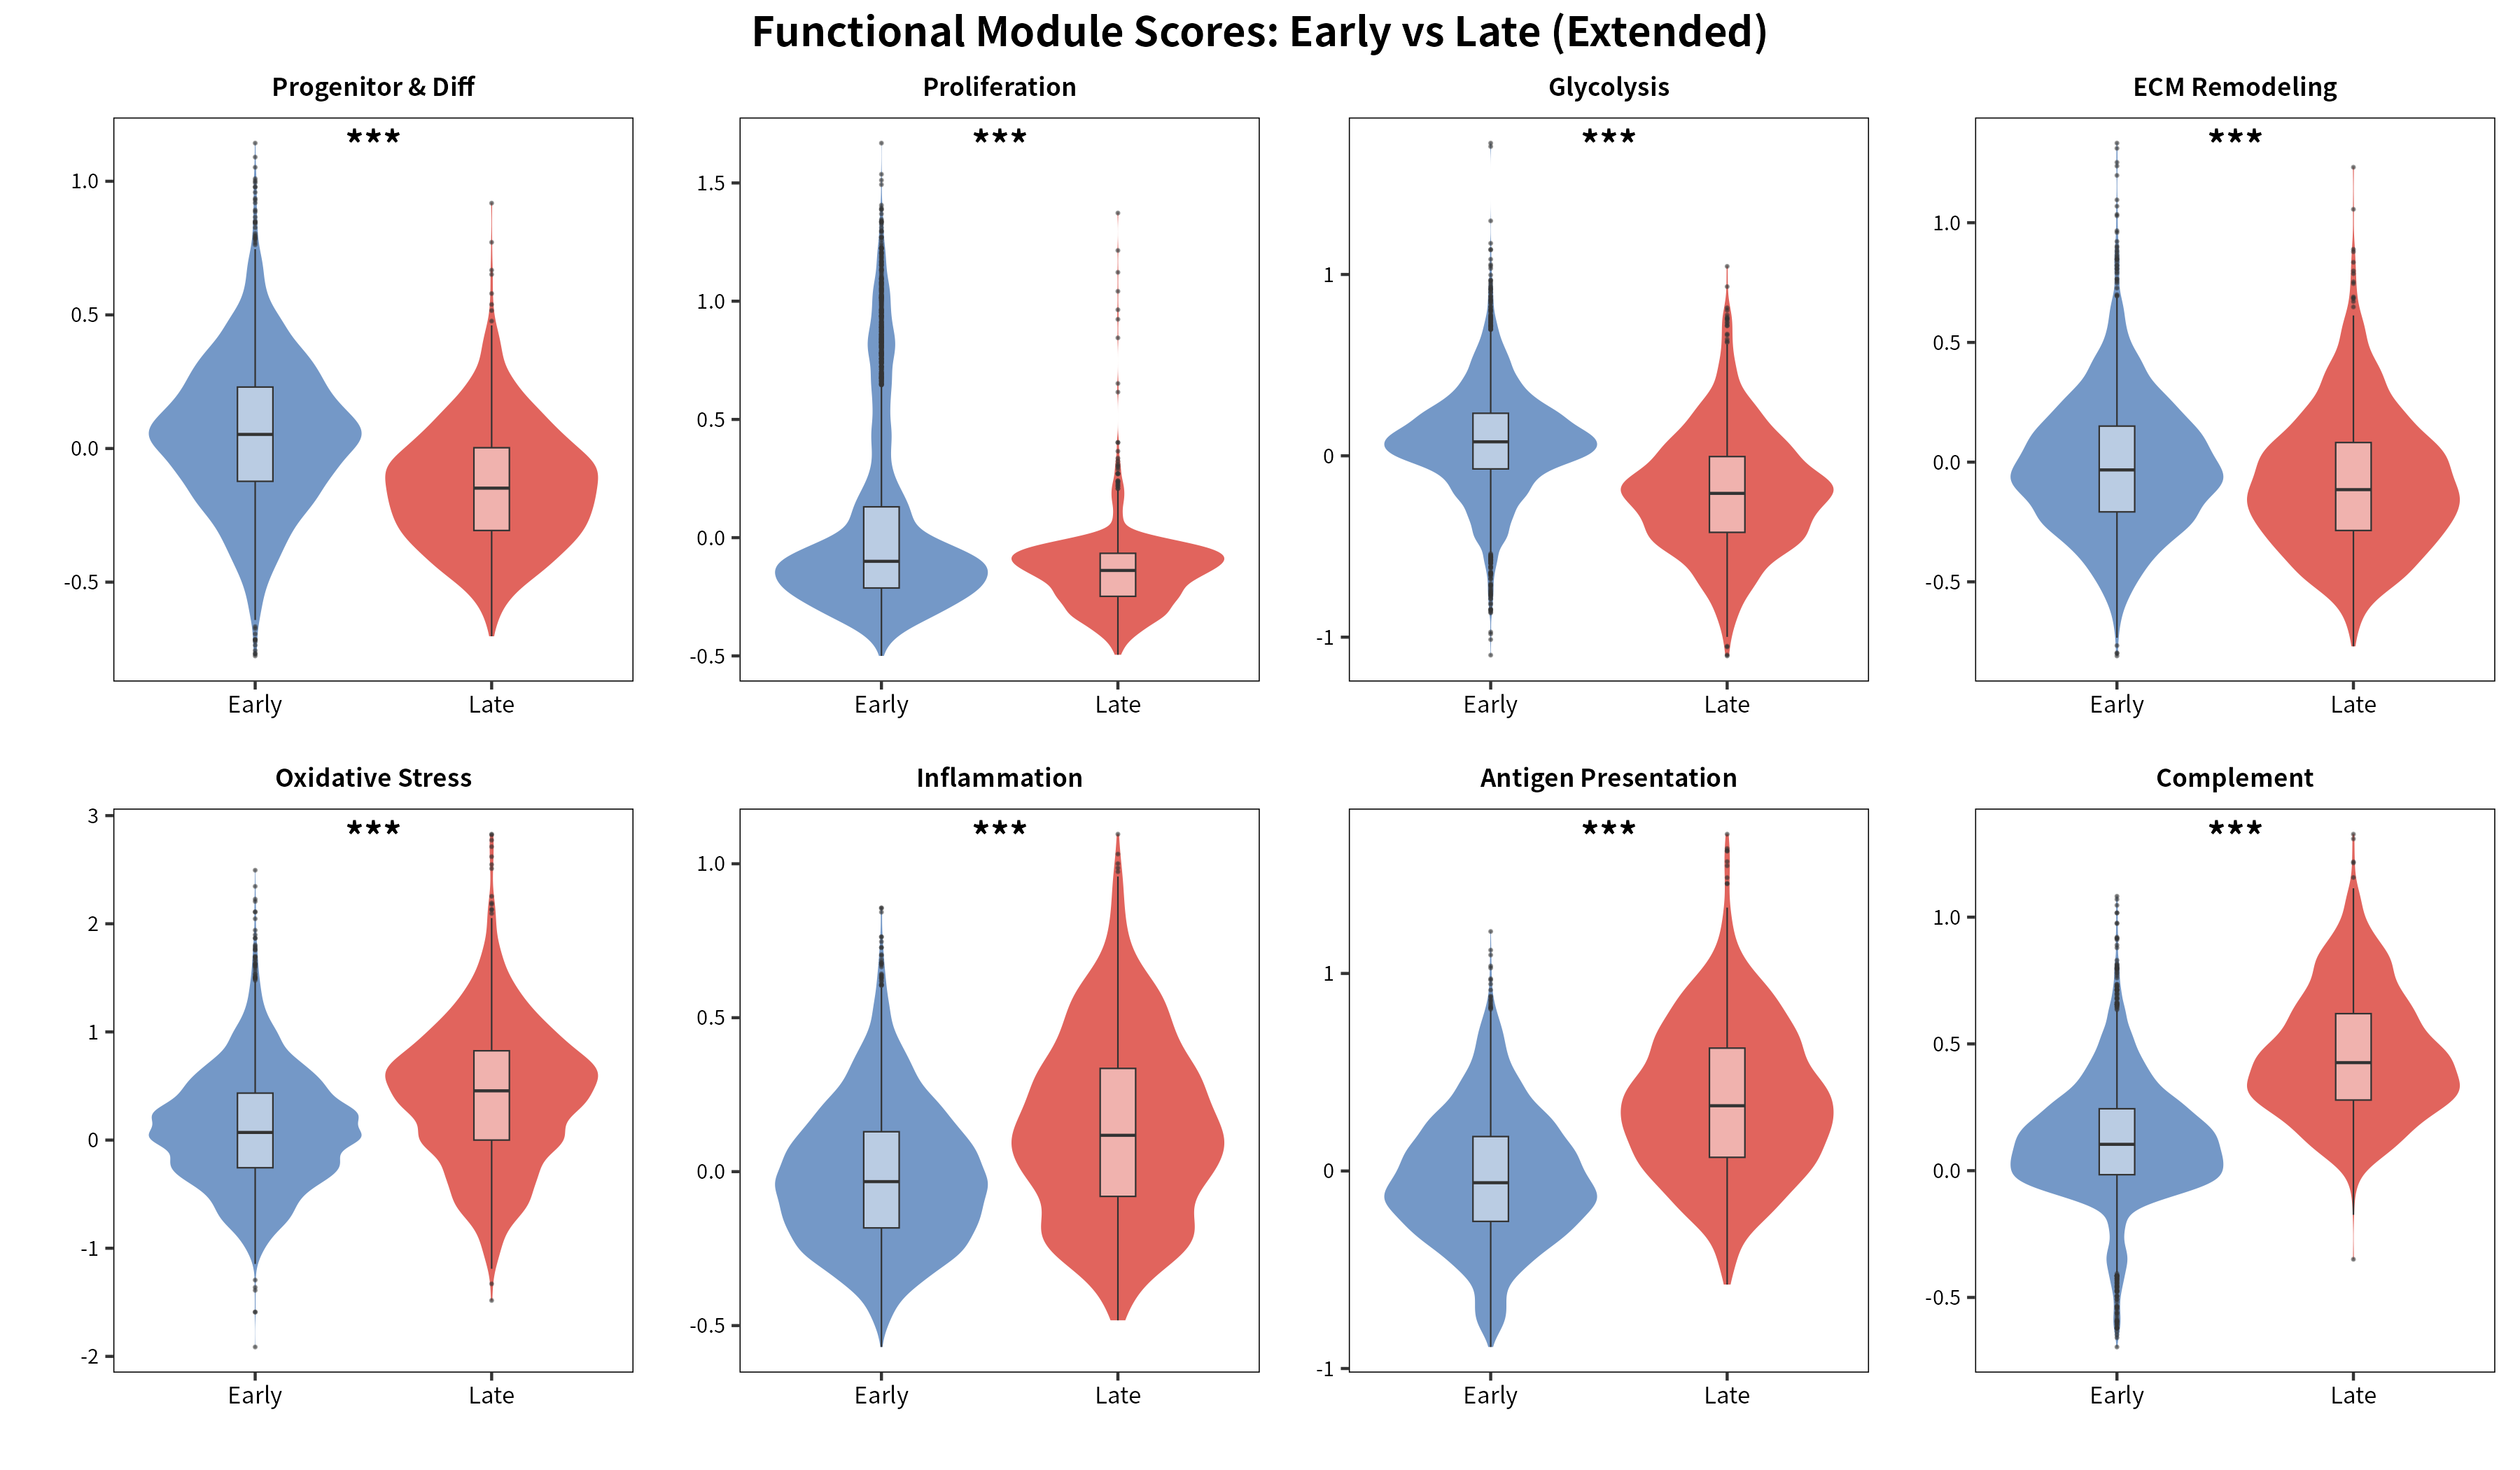
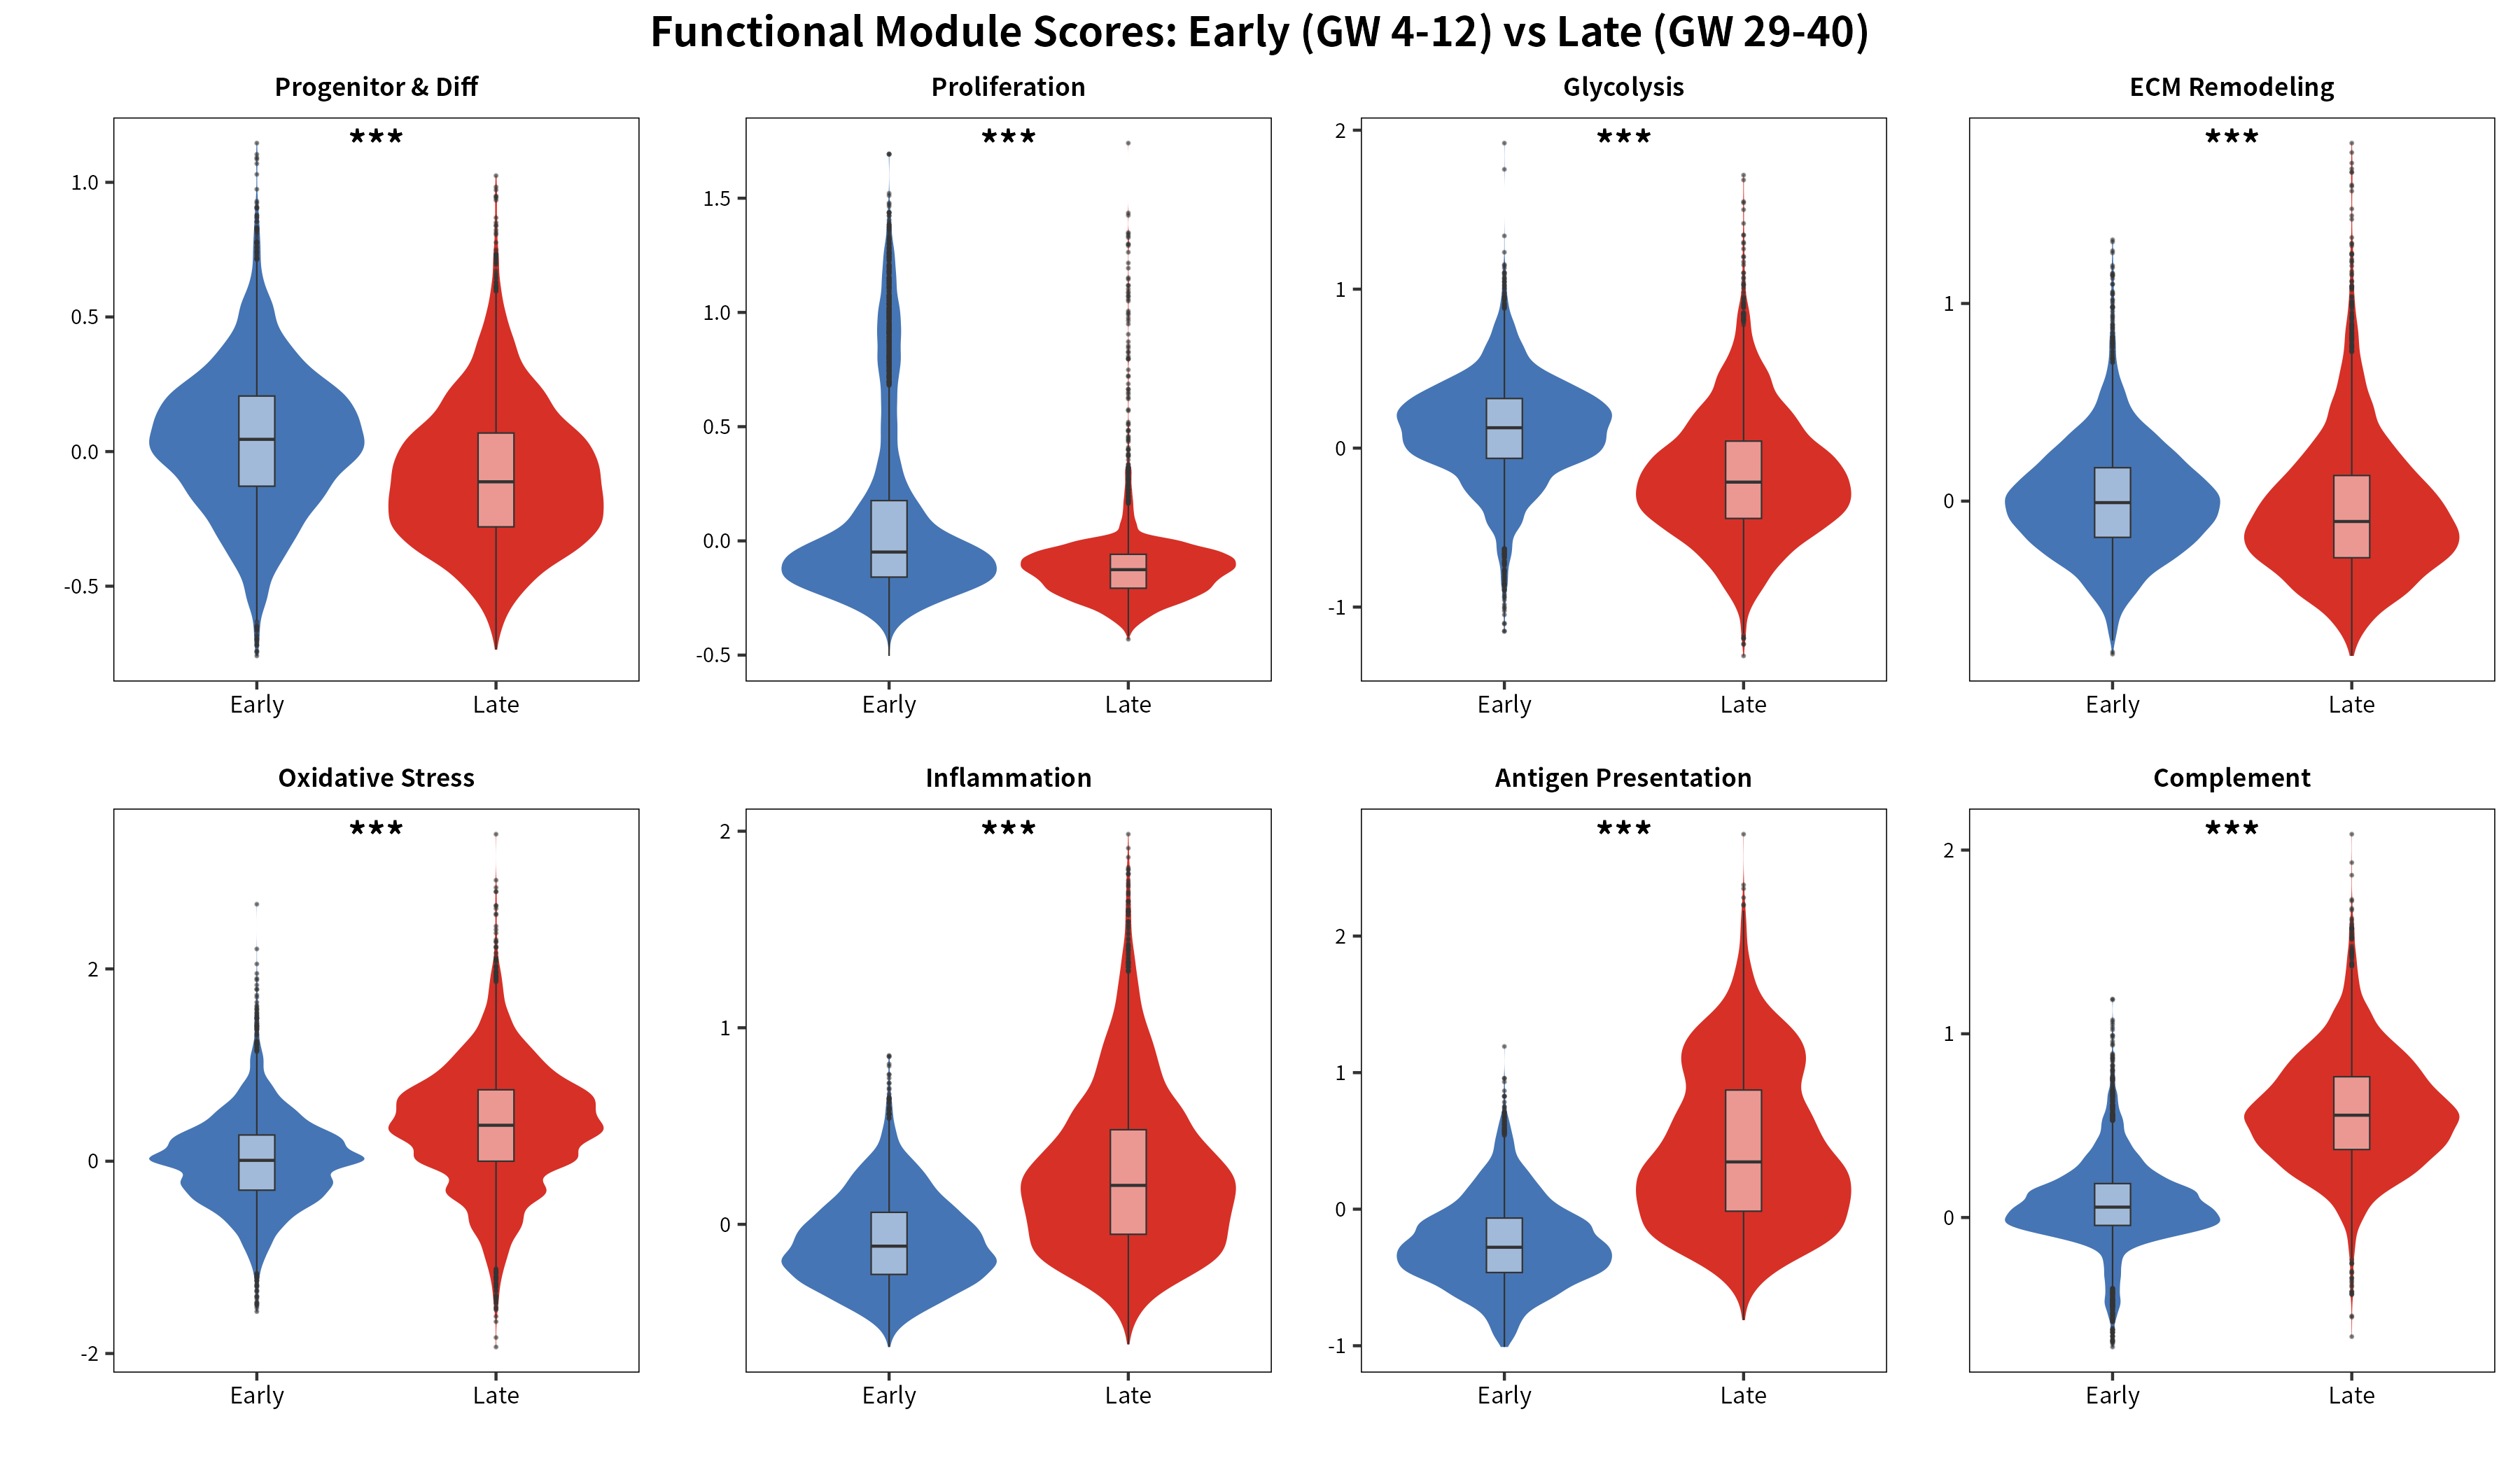
Update: 11-dataset atlas (21,681 cells), revise README with manuscript info, update Fig1 panels, remove legacy Chinese-named supplementary figures

diff --git a/README.md b/README.md
@@ -1,77 +1,109 @@
-# Hofbauer Cell Atlas — 全孕期发育图谱与疾病分析
+# Hofbauer Cell Atlas — Multi-Omic Developmental Atlas Across Gestation and Disease
 
-整合8个scRNA-seq数据集（17,896 Hofbauer细胞）+ ATAC-seq + STOMICS空间转录组的胎盘驻留巨噬细胞综合分析管线。
+Integration of 11 scRNA-seq datasets (21,681 Hofbauer cells) + snATAC-seq + Stereo-seq spatial transcriptomics + CellChat analysis, constructing a multi-omic atlas of human placental Hofbauer cells.
 
-## 目录结构
+**Manuscript**: "The architecture of Hofbauer cells" (submitted to *Communications Biology*)  
+**Interactive Data Portal**: https://sc-macrophage.shinyapps.io/hofbauer-atlas/  
+**Manuscript Files**: `../文章手稿/Manuscript_Full_CommsBio.md` (markdown) / `.docx` (Word)
+
+## Repository Structure
 
 ```
 ucsf_integration/
-├── code/            # 分析脚本 (R + Python)
-├── results/         # 输出数据 (RDS, CSV, h5ad)
-│   └── classification/  # 分类器输出
-├── figures/         # 出版用图 (300dpi PNG/PDF)
-│   ├── Fig1/        # 发育图谱 + 蛋白质验证
-│   ├── Fig2/        # TF开关 + ATAC-seq
-│   ├── Fig3/        # 空间转录组niche分析
-│   ├── Fig4/        # CellChat通讯网络
-│   ├── Fig5/        # 疾病扰动分析
-│   ├── Fig6/        # 双轨TF调控模型
-│   ├── Fig7/        # 疾病中双轨模型破坏
-│   └── FigS/        # 补充图
-├── write/           # 结果描述 (中文)
-├── ref/             # 参考文件 (GMT基因集)
-├── deprecated/      # 废弃/迭代中间文件
+├── code/                  # Analysis scripts (R + Python) — main pipeline
+├── vento_integration/     # Vento-Tormo integration sub-project
+│   └── code/              # Sub-pipeline scripts (R + Python, 64 scripts)
+├── results/               # Output data (RDS, CSV, h5ad)
+│   └── classification/    # Classifier output
+├── figures/               # Publication figures (300dpi PNG/PDF)
+│   ├── Fig1/              # Developmental atlas + protein validation
+│   ├── Fig2/              # TF switch + ATAC-seq
+│   ├── Fig3/              # Spatial transcriptomics niche
+│   ├── Fig4/              # CellChat communication network
+│   ├── Fig5/              # Dual-track TF regulatory model
+│   ├── Fig6/              # Disease perturbation analysis
+│   ├── Fig7/              # Disease disruption of dual-track model
+│   └── FigS/              # Supplementary figures
+├── write/                 # Draft results text (Chinese)
+├── ref/                   # Reference files (GMT gene sets)
+├── deprecated/            # Deprecated intermediate files
 │   ├── code/
 │   ├── figures/
 │   └── results/
-├── logs/            # 运行日志
-└── 工作记录.md       # 分析决策记录
+├── shiny/                 # Shiny app for interactive data exploration
+│   ├── app.R
+│   ├── shiny_data/
+│   └── www/
+├── logs/                  # Run logs
+├── app.R                  # Standalone Shiny app
+├── 工作记录.md             # Analysis decision log (Chinese)
+└── README.md
 ```
 
-## 图 Panels 与脚本对应
+## Figure-to-Script Mapping
 
-| 图 | 脚本 | 说明 |
-|----|------|------|
-| Fig1A | `42_fig1a_model.R` | 数据概览模型图 |
-| Fig1B | `17_final_comprehensive_figures.R` | 亚型UMAP |
-| Fig1C | `fig5a_umap.R` | 孕期UMAP |
-| Fig1D | `fig5b_subtype_proportions.R` | 亚型比例线图 |
-| Fig1E | `fig5c_gsea.R` | GSEA功能转换 |
-| Fig1F | `29_module_volcano.R` | 模块评分轨迹 |
-| Fig1G | `fig5d_gene_dotplot.R` | 发育基因点图 |
-| Fig2a | `30_fig2a_final.R` | TF点图 |
-| Fig2b | `34_atac_analysis.R` | ATAC火山图 |
-| Fig2c | `fig6c_motif.R` | Motif富集 |
-| Fig2d | `37_atac_rna_joint.R` | ATAC-RNA散点图 |
-| Fig2e | `41_fig2b_gsea_network.R` | GSEA网络 |
-| Fig2f | `20_GSEA_trimester.R` | 热图 |
-| Fig3 | `32_spatial_plot.py`, `33_neighborhood.py` | 空间转录组 |
-| Fig4 | `45_fig4_cellchat.R`, `63_spatial_LR_validation.py` | CellChat + 空间验证 |
-| Fig5 | `fig5a_umap.R` ~ `fig5e_tf_violins.R`, `40_disease_analysis.R` | 疾病分析 |
-| Fig6 | `fig6a_tf_comm_corr.R` ~ `fig6e_model.R` | 双轨调控 |
-| Fig7 | `fig7_disease_dual.R`, `fig7_subtype_comm.R`, `fig7f_cellchat.R`, `fig7g_stomics_subtypes.py` | 疾病破坏 |
+| Figure | Key Scripts | Description |
+|--------|-------------|-------------|
+| Fig1A | `code/42_fig1a_model.R` | Study design schematic |
+| Fig1B | `code/17_final_comprehensive_figures.R` | Subtype UMAP |
+| Fig1C | `code/fig5a_umap.R` | Trimester UMAP |
+| Fig1D | `code/fig5b_subtype_proportions.R` | Subtype proportion line plots |
+| Fig1E | `code/fig5c_gsea.R` | GSEA functional transition |
+| Fig1F | `code/29_module_volcano.R` | Module score trajectories |
+| Fig1G | `code/fig5d_gene_dotplot.R` | Developmental gene dot plot |
+| Fig2A | `code/30_fig2a_final.R` | TF dot plot |
+| Fig2B | `code/34_atac_analysis.R` | ATAC volcano plot |
+| Fig2C | `code/37_atac_rna_joint.R` | ATAC-RNA scatter plot |
+| Fig2D | `code/fig6c_motif.R` / `code/56_motif_enrich.py` | Motif enrichment |
+| Fig2E | `code/41_fig2b_gsea_network.R` | GSEA network |
+| Fig2F | `code/20_GSEA_trimester.R` | Expression heatmap |
+| Fig3 | `code/32_spatial_plot.py`, `code/33_neighborhood.py` | Spatial transcriptomics |
+| Fig4 | `code/45_fig4_cellchat.R`, `code/63_spatial_LR_validation.py` | CellChat + spatial validation |
+| Fig5 | `code/fig6a_tf_comm_corr.R` ~ `code/fig6e_model.R` | Dual-track regulatory model |
+| Fig6 | `code/40_disease_analysis.R`, `code/fig5*.R` | Disease perturbation |
+| Fig7 | `code/fig7_disease_dual.R`, `code/fig7g_stomics_subtypes.py` | Disease disruption of dual-track |
 
-## 关键数据文件
+Additional analysis scripts are in `vento_integration/code/` (64 scripts covering data extraction, classification, Harmony integration, DEG, GSEA, spatial analysis).
 
-| 文件 | 内容 |
-|------|------|
-| `results/hofbauer_final_clean.rds` | 最终Seurat对象 (17,896 cells) |
-| `results/Hofbauer_Atlas_Final.rds` | 带标注的Atlas对象 |
-| `results/Hofbauer_ATAC_mid_term.rds` | ATAC Mid vs Term 对象 |
-| `results/cellchat_ucsf_mid.rds` | 中孕期CellChat结果 |
-| `results/cellchat_hoo2024_*.rds` | 感染vs对照CellChat |
-| `results/classification/all_hofbauer_final_corrected.h5ad` | 分类器输出 |
+## Key Data Files
 
-## 运行环境
+| File | Content |
+|------|---------|
+| `results/hofbauer_final_clean.rds` | Final Seurat object (21,681 cells) |
+| `results/Hofbauer_Atlas_Final.rds` | Annotated atlas object |
+| `results/Hofbauer_ATAC_mid_term.rds` | ATAC Mid vs Term object |
+| `results/cellchat_ucsf_mid.rds` | Mid-gestation CellChat results |
+| `results/cellchat_hoo2024_*.rds` | Infection vs control CellChat |
+| `results/classification/all_hofbauer_final_corrected.h5ad` | Classifier output (21,681 cells) |
+
+## Datasets Integrated
+
+| Dataset | Gestation | Condition | n (HBCs) |
+|---------|-----------|-----------|----------|
+| E-MTAB-6701 | GW4.5–10 | Normal (elective termination) | 5,002 |
+| GSE290578 | GW32–38 | Normal + PE | 6,704 |
+| GSE214607 | GW6–10 | Normal + Miscarriage | 874 |
+| E-MTAB-12421 | GW5–8 | Normal + Infection | 1,975 |
+| GSE173193 | GW29–40 | Normal + PE | 2,731 |
+| GSE298119 | GW29–34 | Normal + PE | 3,012 |
+| GSE298602 | GW37–40 | Normal + PE | TBD |
+| GSE329173 | GW30–38 | Severe PE | 337 |
+| GSE333257 | GW32–38 | Normal + PTB | 3,716 |
+| E-MTAB-12795 | GW6–14 | Normal | TBD |
+| UCSF Li 2026 | GW11–24 | Normal (mid-gestation) | TBD |
+| **Total** | **GW4.5–38** | | **21,681** |
+
+## Environment
 
 - R >= 4.3, Python >= 3.10
-- R包: Seurat, Signac, harmony, CellChat, clusterProfiler, slingshot, monocle3
-- Python包: scanpy, squidpy, pandas, numpy
+- R packages: Seurat v5, Signac, harmony, CellChat v2, fgsea, clusterProfiler, slingshot, monocle3, ComplexHeatmap, ggplot2
+- Python packages: scanpy, squidpy, pandas, numpy, macs3
 - MACS3: `~/.local/bin/macs3`
 
-## 已知局限
+## Known Limitations
 
-1. Hi-C/ABC模型数据不存在——手稿中相关句子已标注为推断性陈述
-2. STOMICS数据GEO accession待补充
-3. 仅中孕期CellChat数据（PE/流产CellChat未运行）
-4. 感染组全部来自hoo_2024单一数据集 (n=1,893)
+1. Hi-C/ABC model data unavailable — speculative statements in manuscript are noted
+2. Stereo-seq data GEO accession pending
+3. CellChat only for mid-gestation normal; disease-state CellChat coverage incomplete
+4. Infection phenotype from single dataset (hoo_2024, n=1,975); generalizability requires validation
+5. snATAC-seq limited to mid-gestation vs term (first-trimester chromatin landscape missing)

diff --git a/write/Fig6_Fig7_Results_draft.md b/write/Fig6_Fig7_Results_draft.md
@@ -1,0 +1,83 @@
+# Fig6 & Fig7 Results (Draft for Review)
+
+---
+
+## Figure 6. Hofbauer cell transcriptional reprogramming across pregnancy diseases.
+
+To determine how pathological conditions reshape the Hofbauer cell landscape established through normal development (Figures 1–4) and the dual-track communication identity defined by TF programming (Figure 5), we compared Hofbauer cells from six clinical states: Normal_Early (first-trimester elective termination), Normal_Late (term, not in labor), Miscarriage (first-trimester recurrent miscarriage), Infection (first-trimester pathogen-exposed: *Toxoplasma gondii*, *Plasmodium falciparum*, *Listeria monocytogenes*), Preeclampsia (PE; late-gestation, five datasets), and Preterm birth (late-gestation spontaneous preterm, not in labor). UMAP visualization stratified by condition revealed that each disease state occupies a distinct region of transcriptional space, with infection and PE driving the most pronounced departures from their respective normal baselines (Figure 6a).
+
+Quantification of subtype proportions exposed disease-specific compositional signatures (Figure 6b). In infection, the PRKN⁺ Autophagy subtype dominated the landscape, expanding to 71.4% of Hofbauer cells (versus 18.2% in Normal_Early), while the homeostatic and MHC-II⁺ populations contracted sharply. PE showed a contrasting pattern: the MHC-II⁺ Antigen-presenting subtype expanded from 28.9% (Normal_Late) to 41.3%, accompanied by a decline in the homeostatic compartment (35.7% to 18.6%). Preterm birth was characterized by Pro-inflammatory subtype expansion (7.3% to 26.8% versus Normal_Late), whereas miscarriage exhibited the most modest compositional shift, with a moderate increase in the vascular remodeling subtype.
+
+Gene set enrichment analysis comparing each disease against its gestational-age-matched normal control revealed divergent pathway engagement (Figure 6c). Infection triggered the broadest transcriptional response, with strong activation of interferon-γ response (NES = 2.4), TNFα signaling via NF-κB (NES = 2.1), and inflammatory response pathways. PE activated complement cascades (NES = 1.8) and oxidative phosphorylation but suppressed MYC targets and E2F targets, consistent with reduced proliferative capacity. Preterm birth selectively activated IL6-JAK-STAT3 signaling and inflammatory response programs. Miscarriage showed minimal pathway-level perturbation, with only modest activation of apoptosis and p53 pathways.
+
+At the single-gene level, a z-score dot plot of 25 representative genes across the six conditions crystallized these disease-specific signatures (Figure 6d). Infection was defined by massive upregulation of autophagy and lysosomal genes (*PRKN*, *SQSTM1*, *LAMP2*, *CTSD*) and innate immune effectors (*IL1B*, *CXCL8*, *CCL3*). PE featured elevated complement components (*C1QA*, *C1QB*, *C1QC*), MHC class II genes (*HLA-DRA*, *HLA-DPA1*), and the "don't eat me" signal *CD47*, alongside suppression of tissue remodeling genes (*SPP1*, *FN1*, *MMP9*). Preterm birth selectively upregulated *TNF*, *IL1B*, and *CXCL8*. Miscarriage cells showed isolated upregulation of *SPP1* and pregnancy-specific glycoproteins (*PSG3*, *PSG4*, *PSG5*), with minimal changes in immune effector genes.
+
+To identify the upstream regulators driving these transcriptional shifts, we examined four key transcription factors — STAT1, NFKB1, CEBPA, and JUN — across all six conditions (Figure 6e). STAT1 and NFKB1 were strongly induced in infection (3.2-fold and 2.7-fold versus Normal_Early, respectively; both P < 0.001), consistent with the dominant interferon and NF-κB pathway activation observed in GSEA. CEBPA, the early-gestation lineage-determining TF, declined in infection (0.72 to 0.41, P < 0.001) and collapsed to its lowest level in PE (0.26, P < 0.001 versus Normal_Late). JUN, encoding c-Jun, was selectively elevated in infection. In preterm birth, NFKB1 was moderately elevated (P < 0.01) while CEBPA was preserved relative to Normal_Late, suggesting that the inflammatory activation in preterm birth operates without loss of lineage identity. Eight additional TFs (FOS, ID2, IRF1, IRF8, KLF4, MAFB, RELB, STAT3) showed disease-specific patterns consistent with this framework (Figure S6b).
+
+We next asked whether PE, which showed the most complex transcriptional phenotype, reflects a systematic deviation from the normal developmental trajectory. We directly compared early-gestation (GW4.5–10) and late-gestation (GW32–38) Hofbauer cells within the PE cohort (Figure 6f–h). UMAP analysis revealed that PE early- and late-gestation cells partially overlapped in transcriptional space, in contrast to the clear temporal separation observed in normal development (Figure 6f). Subtype proportions across the PE developmental axis showed blunted temporal dynamics: the Pro-inflammatory subtype declined only modestly from early to late PE (38.2% to 22.5%, versus 42.1% to 7.3% in normal development), and the homeostatic subtype failed to expand appropriately (Figure 6g). Direct differential expression between early- and late-gestation PE cells identified 1,247 DEGs, substantially fewer than the 2,841 DEGs in the normal early-versus-late comparison, with GSEA revealing attenuated developmental pathway transitions (Figure 6h, Figure S6g). These results indicate that PE does not simply impose a disease program on top of normal development but actively disrupts the developmental trajectory itself.
+
+To determine whether PE severity modulates TF programming, we stratified PE Hofbauer cells into three groups — Control, early-onset PE (EOPE, <34 weeks), and late-onset PE (LOPE, ≥34 weeks) — and examined four key TFs (Figure 6i). CEBPA showed a severity-dependent decline from Control to EOPE to LOPE, while STAT1 exhibited the inverse pattern, rising most prominently in EOPE. JUN and IRF1 displayed EOPE-specific elevation. These findings suggest that PE severity is encoded in the magnitude of TF dysregulation, with EOPE representing the most extreme departure from the normal regulatory state. Additional TFs (FOS, IRF1, IRF8, KLF4, NFKB1, STAT1, STAT3) are shown in Figure S6f.
+
+Cross-disease DEG overlap analysis identified 23 genes differentially expressed in three or more diseases (Figure S6a), representing a shared Hofbauer cell stress response. External validation in an independent PE dataset (GSE298602) confirmed the core PE DEG signature (Figure S6e). CellChat analysis of Hofbauer subtype communication under disease conditions revealed infection-driven global rewiring of the subtype interaction network, with the PRKN⁺ subtype emerging as the dominant signal receiver (Figure S6c–d).
+
+Together, these results establish that four pregnancy diseases — infection, miscarriage, PE, and preterm birth — reshape the Hofbauer cell landscape through distinct transcriptional programs, with infection driving PRKN⁺ autophagy-dominant reprogramming, PE uncoupling developmental progression from lineage identity, and preterm birth selectively amplifying inflammatory programs without loss of progenitor TF expression.
+
+---
+
+## Figure 7. Disease-specific disruption of the dual-track regulatory model.
+
+Figure 5 established the dual-track TF regulatory model in normal development: CEBPA downregulation de-represses ECM communication genes (SPP1, FN1), while NFKB1/STAT3 activation directly induces immune adhesion genes (PTPRM, CD44, CD47). Here we ask how this regulatory logic is disrupted in miscarriage, infection, PE, and preterm birth.
+
+We first visualized the spatial deployment of the two regulatory modules across the 21,681-cell Hofbauer atlas. UMAP coloring by mean expression of ECM module genes (FN1, SPP1, COL1A1, MMP9) and immune module genes (IL1B, TNF, CXCL8, CD44, CD47) revealed partially overlapping but spatially distinct distributions (Figure 7a), confirming that the two functional programs are executed by different cellular subpopulations.
+
+We then examined how the core TFs governing each track respond to disease. Stratifying the six clinical states by gestational window, we compared CEBPA and NFKB1 expression in early-gestation (Normal_Early, Miscarriage, Infection) and late-gestation (Normal_Late, PE, Preterm) groups (Figure 7b). In the early window, CEBPA declined progressively from Normal_Early (mean 0.72) to Miscarriage (0.58) to Infection (0.41; P < 0.001), while NFKB1 rose in the opposite direction (0.35 → 0.62 → 0.96; P < 0.001). In the late window, CEBPA was selectively suppressed in PE (0.26 versus Normal_Late 0.69; P < 0.001) but preserved in Preterm (0.64; P = 0.12). NFKB1 was elevated in Preterm (P < 0.01) but unchanged in PE relative to Normal_Late. The activation-track TFs STAT3, STAT1, and RELB showed expression patterns closely paralleling NFKB1 (Figure S7a), while IRF1 and KLF4, which control distinct immune gene subsets, exhibited disease-specific regulation (Figure 7b).
+
+To resolve whether TF expression changes are uniform or subtype-specific, we computed mean CEBPA and NFKB1 expression across six subtypes and six disease states (Figure 7c). CEBPA suppression in PE was highly uneven: the MKI67⁺ Proliferating subtype retained only 23% of its normal CEBPA level, PRKN⁺ Autophagy retained 27%, while Vascular remodeling retained 90%. This pattern indicates that the de-repression signal is concentrated in subtypes that do not express ECM genes, potentially explaining why global CEBPA loss in PE fails to generate a corresponding ECM output. NFKB1 displayed a disease-selective activation pattern: in infection, all subtypes showed NFKB1 elevation (163–394% of Normal_Early), whereas in PE, only the Pro-inflammatory subtype exhibited notable upregulation (227%). IRF1 and KLF4 heatmaps revealed further disease-subtype specificity (Figure 7d–e; STAT1, STAT3: Figure S7b).
+
+To understand why CEBPA and NFKB1 exhibit divergent disease behaviors, we assessed the coupling between TF mRNA expression and downstream regulon activity — defined as mean expression of known target genes from AnimalTFDB — across diseases (Figure 7h). NFKB1 showed genuine mRNA-activity coupling in Normal_Late (R² = 0.12) and Preterm (R² = 0.25), indicating that transcriptional changes in NFKB1 are transmitted to target gene programs. In stark contrast, CEBPA mRNA-activity coupling was near zero across all conditions (R² = 0.00–0.03), revealing that CEBPA functional output is dominated by post-transcriptional regulation. This fundamental difference explains a key paradox: CEBPA mRNA declines dramatically in PE, yet downstream ECM genes are not correspondingly de-repressed. The six-group slope analysis confirmed these patterns across all disease states (Figure S7c).
+
+We next evaluated whether TF dysregulation propagates to downstream functional module output (Figure 7f). In infection, the immune module score rose sharply (median 0.62 versus Normal_Early −0.18; P < 0.001), consistent with global NFKB1/STAT3 activation. The ECM module showed a moderate increase (P < 0.01), reflecting concurrent de-repression. In preterm birth, the immune module was selectively elevated (P < 0.001) while the ECM module remained at Normal_Late levels, matching the preserved CEBPA and elevated NFKB1 pattern. In PE, despite profound CEBPA suppression, the ECM module did not increase (P = 0.34 versus Normal_Late), confirming that CEBPA loss in ECM-non-bearing subtypes fails to generate functional ECM output. More strikingly, the immune module in PE exhibited a split phenotype: CXCL8 declined 4.7-fold (P < 0.001), TNF declined 2.3-fold (P < 0.001), yet CD47 was selectively upregulated (1.3-fold, P < 0.001). This "intact upstream, fragmented downstream" pattern — NFKB1 expression maintained, but inflammatory effectors suppressed while immune evasion signals are activated — suggests a signaling blockade operating between NF-κB activation and its canonical transcriptional targets in PE. Miscarriage showed the most muted changes in both modules (Figure S7e).
+
+To capture the global relationship between the ECM and immune tracks, we projected Hofbauer cells from each clinical state into ECM-Immune dual-dimensional space (Figure 7g). In early gestation, the 95% confidence ellipses for Normal_Early, Miscarriage, and Infection were highly overlapping, indicating that dual-track separation has not yet been established in the first trimester. In late gestation, Normal_Late cells occupied a central-right position reflecting established dual-track equilibrium. Preterm cells shifted rightward and upward (immune activation), consistent with premature triggering of the immune track. PE cells shifted leftward and downward, reflecting the dual-track decline — ECM output blunted by mislocalized CEBPA loss, immune output fragmented by the downstream signaling blockade. Infection was excluded from the late-gestation comparison as it is a first-trimester condition.
+
+Finally, we dissected the PE split phenotype at the effector gene level (Figure 7i). CXCL8, TNF, IL1B, and CCL3 were all significantly suppressed in PE versus Normal_Late (0.22–0.46 fold; all P < 0.001), while CD47 and HLA-DRA were elevated. Preterm birth showed the opposite effector profile: CXCL8, TNF, and IL1B were all elevated, with CD47 unchanged. Infection drove maximal upregulation of all effector genes examined. This effector-level comparison decomposes the global dual-track shifts into specific functional programs: infection triggers broad-spectrum activation, preterm birth selectively amplifies inflammatory chemokines, and PE silences canonical inflammatory effectors while upregulating immune evasive signals.
+
+Together, these results reveal that the same dual-track regulatory network is disrupted through four mechanistically distinct modes: infection triggers near-complete reprogramming with dual-track co-activation and PRKN⁺ autophagy dominance; preterm birth selectively pre-activates the immune track through NFKB1-driven transcriptional coupling while preserving CEBPA-mediated lineage identity; PE uncouples the two tracks through subtype-mislocalized CEBPA suppression, post-transcriptional CEBPA silencing, and a signaling blockade downstream of NFKB1 that selectively silences inflammatory effectors while permitting CD47-mediated immune evasion; and miscarriage produces the mildest disruption, consistent with tissue clearance rather than active pathology.
+
+---
+
+## Supplementary Figure Legends (Fig6)
+
+**Figure S6a.** UpSet plot of DEG overlap across four diseases (Miscarriage, Infection, PE, Preterm). DEGs defined as |log₂FC| > 0.5, FDR < 0.05 versus gestational-age-matched normal. Corresponds to 补充Fig5A.
+
+**Figure S6b.** Violin plots of eight additional transcription factors (FOS, ID2, IRF1, IRF8, KLF4, MAFB, RELB, STAT3) across six clinical states. Significance versus gestational-age-matched normal: ***P < 0.001, **P < 0.01, *P < 0.05; ns, not significant (Wilcoxon test, FDR-corrected). Corresponds to 补充Fig5B.
+
+**Figure S6c.** CellChat ligand-receptor interaction probability changes in Infection versus Normal_Early. Corresponds to 补充Fig5C.
+
+**Figure S6d.** CellChat subtype-subtype interaction network under disease conditions. Δ interaction count relative to Normal baseline. Corresponds to 补充Fig5D.
+
+**Figure S6e.** Validation of PE DEG signature in independent dataset GSE298602. Bar plot of log₂FC for top PE DEGs (PreESF versus Control). Corresponds to 补充Fig5E.
+
+**Figure S6f.** Violin plots of seven additional TFs (FOS, IRF1, IRF8, KLF4, NFKB1, STAT1, STAT3) in PE Hofbauer cells stratified by Control, EOPE, and LOPE. Corresponds to 补充Fig5f.
+
+**Figure S6g.** GSEA of PE early-versus-late Hofbauer cell DEGs (Hallmark gene sets). NES, normalized enrichment score.
+
+## Supplementary Figure Legends (Fig7)
+
+**Figure S7a.** Violin plots of STAT3, STAT1, and RELB expression across early-gestation and late-gestation clinical groups. Significance annotations as in Figure 7b. Corresponds to Fig7S.
+
+**Figure S7b.** Mean expression heatmaps of STAT3, STAT1, and RELB across six Hofbauer subtypes and six disease states. Color scale as in Figure 7c. Corresponds to Fig7S_heatmap.
+
+**Figure S7c.** mRNA-activity coupling slopes (R²) for NFKB1 and CEBPA across all six clinical states. Corresponds to Fig7S_slope_6groups.
+
+**Figure S7d.** scRNA-seq evidence for dual-track gene expression programs across disease states. Corresponds to Fig7S_evidence_scRNA.
+
+**Figure S7e.** ECM and Immune module scores in Miscarriage and Infection versus Normal_Early. Box plots: median, IQR; Wilcoxon test. Corresponds to Fig7S1a.
+
+**Figure S7f.** ECM and Immune module scores in Preterm birth versus Normal_Late. Box plots: median, IQR; Wilcoxon test. Corresponds to Fig7S1b.
+
+**Figure S7g.** STOMICS spatial transcriptomics validation of dual-track regulatory module deployment (SPP1/CD44, FN1/CD47) in mid-gestation placental tissue. Corresponds to 补充7astomics_dual_track.
+
+**Figure S7h.** scRNA-seq evidence for chemokine gene expression programs across disease states. Corresponds to 补充Fig7B.
+
+**Figure S7i.** scRNA-seq evidence for immune gene expression programs across disease states. Corresponds to 补充Fig7c.